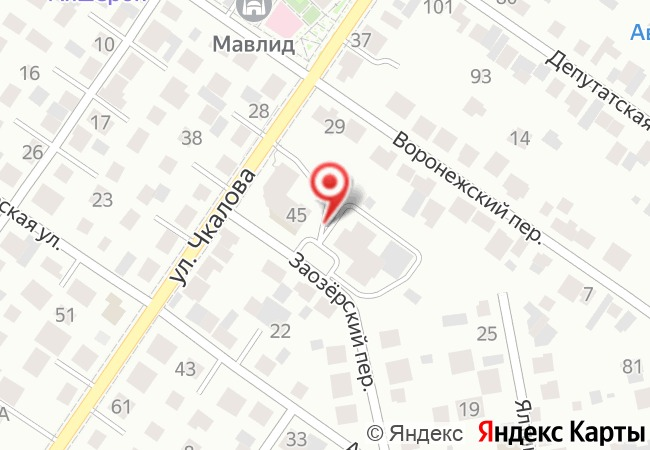
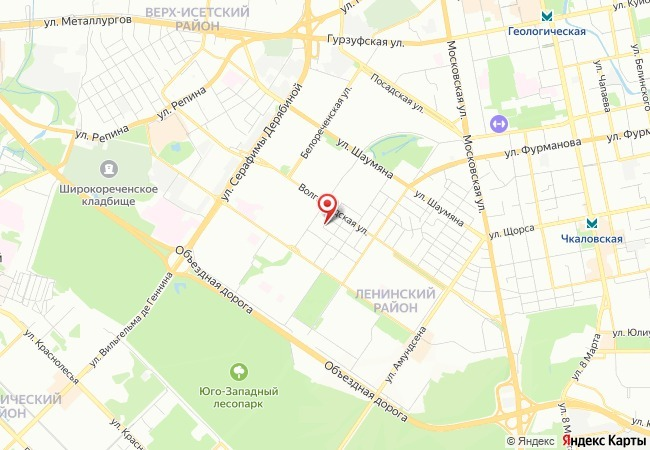
Full-width Yandex map widget with lower zoom and address label
- Replace stretched static image with interactive map-widget iframe
- Zoom z=13, full-width sharp tiles
- Visible badge «Ясная улица, 31» and open-in-maps link

diff --git a/css/styles.css b/css/styles.css
@@ -671,77 +671,74 @@ input {
   position: relative;
   margin-top: 0;
   width: 100%;
-  /* ближе к нативному 650×450 API — без сильного апскейла */
-  max-width: 720px;
-  height: 400px;
-  margin-inline: auto;
-  margin-bottom: 0;
+  height: 480px;
   overflow: hidden;
   background: #1a1a1a;
 }
 
-.contacts__map-link {
-  display: block;
-  width: 100%;
-  height: 100%;
-  position: relative;
-}
-
-.contacts__map-img {
-  width: 100%;
-  height: 100%;
-  max-height: 400px;
-  object-fit: cover;
-  object-position: center;
-  display: block;
-  filter: none;
-  image-rendering: auto;
-  transition: opacity var(--transition);
-}
-
-.contacts__map-link:hover .contacts__map-img {
-  opacity: 0.95;
-}
-
-.contacts__map-pin {
-  position: absolute;
-  top: 50%;
-  left: 50%;
-  transform: translate(-50%, -100%);
-  display: flex;
-  flex-direction: column;
-  align-items: center;
-  gap: 8px;
-  pointer-events: none;
-}
-
-.contacts__map-pin-dot {
-  width: 18px;
-  height: 18px;
-  border-radius: 50% 50% 50% 0;
-  transform: rotate(-45deg);
-  background: var(--gold);
-  box-shadow: 0 4px 14px rgba(0, 0, 0, 0.45);
-  border: 2px solid #fff;
-}
-
-.contacts__map-pin-label {
-  padding: 6px 12px;
-  border-radius: 4px;
-  background: #fff;
-  color: #111;
-  font-size: 12px;
-  font-weight: 600;
-  white-space: nowrap;
-  box-shadow: 0 4px 16px rgba(0, 0, 0, 0.3);
-}
-
+/* Interactive Yandex tiles — sharp at any width */
 .contacts__map-frame {
   display: block;
   width: 100%;
-  height: 470px;
+  height: 100%;
   border: 0;
-  filter: grayscale(0.7) brightness(0.75) contrast(1.05);
+  filter: none;
+}
+
+/* Visible GEO point label */
+.contacts__map-badge {
+  position: absolute;
+  top: 50%;
+  left: 50%;
+  transform: translate(-50%, calc(-100% - 28px));
+  display: flex;
+  align-items: center;
+  gap: 10px;
+  padding: 10px 14px;
+  border-radius: 8px;
+  background: rgba(18, 18, 18, 0.92);
+  border: 1px solid rgba(201, 169, 106, 0.45);
+  box-shadow: 0 10px 28px rgba(0, 0, 0, 0.45);
+  pointer-events: none;
+  z-index: 2;
+  max-width: calc(100% - 32px);
+}
+
+.contacts__map-badge-dot {
+  flex: 0 0 12px;
+  width: 12px;
+  height: 12px;
+  border-radius: 50%;
+  background: var(--gold);
+  box-shadow: 0 0 0 3px rgba(201, 169, 106, 0.25);
+}
+
+.contacts__map-badge-text {
+  color: #fff;
+  font-size: 14px;
+  font-weight: 600;
+  letter-spacing: 0.01em;
+  white-space: nowrap;
+}
+
+.contacts__map-open {
+  position: absolute;
+  right: 16px;
+  bottom: 16px;
+  z-index: 2;
+  padding: 10px 14px;
+  border-radius: 6px;
+  background: rgba(18, 18, 18, 0.9);
+  border: 1px solid rgba(255, 255, 255, 0.12);
+  color: var(--gold);
+  font-size: 13px;
+  font-weight: 600;
+  transition: background var(--transition), border-color var(--transition);
+}
+
+.contacts__map-open:hover {
+  background: rgba(30, 30, 30, 0.95);
+  border-color: rgba(201, 169, 106, 0.4);
 }
 
 /* ===== Footer ===== */
@@ -906,14 +903,18 @@ input {
   }
 
   .contacts__map {
-    max-width: 100%;
-    height: 280px;
+    height: 320px;
   }
 
-  .contacts__map-img,
-  .contacts__map-frame {
-    height: 280px;
-    max-height: 280px;
+  .contacts__map-badge-text {
+    font-size: 13px;
+  }
+
+  .contacts__map-open {
+    right: 12px;
+    bottom: 12px;
+    font-size: 12px;
+    padding: 8px 12px;
   }
 
   .experience__photo {

diff --git a/index.html b/index.html
@@ -244,27 +244,28 @@
       </div>
 
       <!--
-        Local static map (always works on GitHub Pages).
-        Click opens Yandex Maps. Interactive iframe fallback available below.
-        Coords: ул. Ясная, 31, Екатеринбург ≈ lon 60.577, lat 56.809
+        Yandex Maps widget: full-width sharp tiles, moderate zoom (z=13), placemark.
+        Coords: ул. Ясная, 31, Екатеринбург ≈ lon 60.5645, lat 56.8078
       -->
       <div class="contacts__map">
+        <iframe
+          class="contacts__map-frame"
+          title="Карта: Ясная улица, 31, Екатеринбург"
+          src="https://yandex.ru/map-widget/v1/?ll=60.5645%2C56.8078&z=13&pt=60.5645%2C56.8078&l=map&lang=ru_RU"
+          loading="lazy"
+          allowfullscreen
+          referrerpolicy="no-referrer-when-downgrade"
+        ></iframe>
+        <div class="contacts__map-badge" aria-hidden="true">
+          <span class="contacts__map-badge-dot"></span>
+          <span class="contacts__map-badge-text">Ясная улица, 31</span>
+        </div>
         <a
-          class="contacts__map-link"
-          href="https://yandex.ru/maps/?pt=60.577,56.809&z=16&l=map&text=%D0%AF%D1%81%D0%BD%D0%B0%D1%8F%20%D1%83%D0%BB%D0%B8%D1%86%D0%B0%2C%2031"
+          class="contacts__map-open"
+          href="https://yandex.ru/maps/?pt=60.5645,56.8078&z=15&l=map&text=%D0%AF%D1%81%D0%BD%D0%B0%D1%8F%20%D1%83%D0%BB%D0%B8%D1%86%D0%B0%2C%2031"
           target="_blank"
           rel="noopener noreferrer"
-          aria-label="Открыть адрес на Яндекс.Картах: Ясная улица, 31"
-        >
-          <img
-            class="contacts__map-img"
-            src="assets/img/map.jpg"
-            alt="Карта: Ясная улица, 31, Екатеринбург"
-            width="650"
-            height="450"
-            loading="lazy"
-          >
-        </a>
+        >Открыть в Яндекс.Картах</a>
       </div>
     </section>
   </main>
